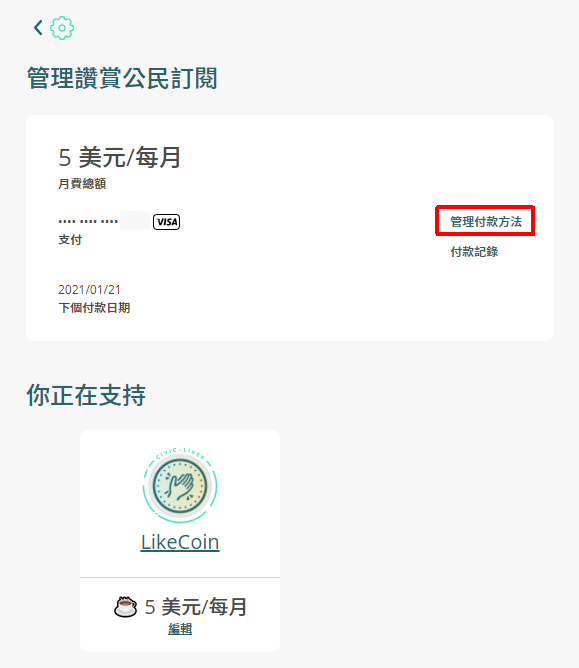
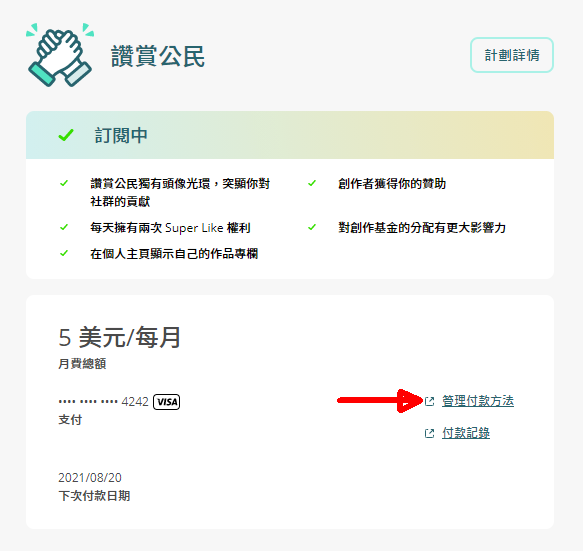
GitBook: [en] one page and 2 assets modified

diff --git a/user-guide/civic-liker/change-credit-card.md b/user-guide/civic-liker/change-credit-card.md
@@ -16,8 +16,6 @@ Step 3:  For Civic Liker 1.0 old scheme, there is a link for "Change",  click on
 
 For Civic Liker 2.0, click on "Manage Payment Method".
 
-![](../../.gitbook/assets/civic-liker-change-credit-card-info-en.png)
-
 Step 4: Going into the Billing interface and change your credit card information.
 
 ![](https://gblobscdn.gitbook.com/assets%2F-LL4mdaVjNgL6A1--PV0%2F-MMT16wjjb4_9DY1thwL%2F-MMT2GJUQVLAsGs7JxHZ%2Fimage.png?alt=media&token=8b6d72e9-3988-4a1a-9137-1a8ec2bab571)
